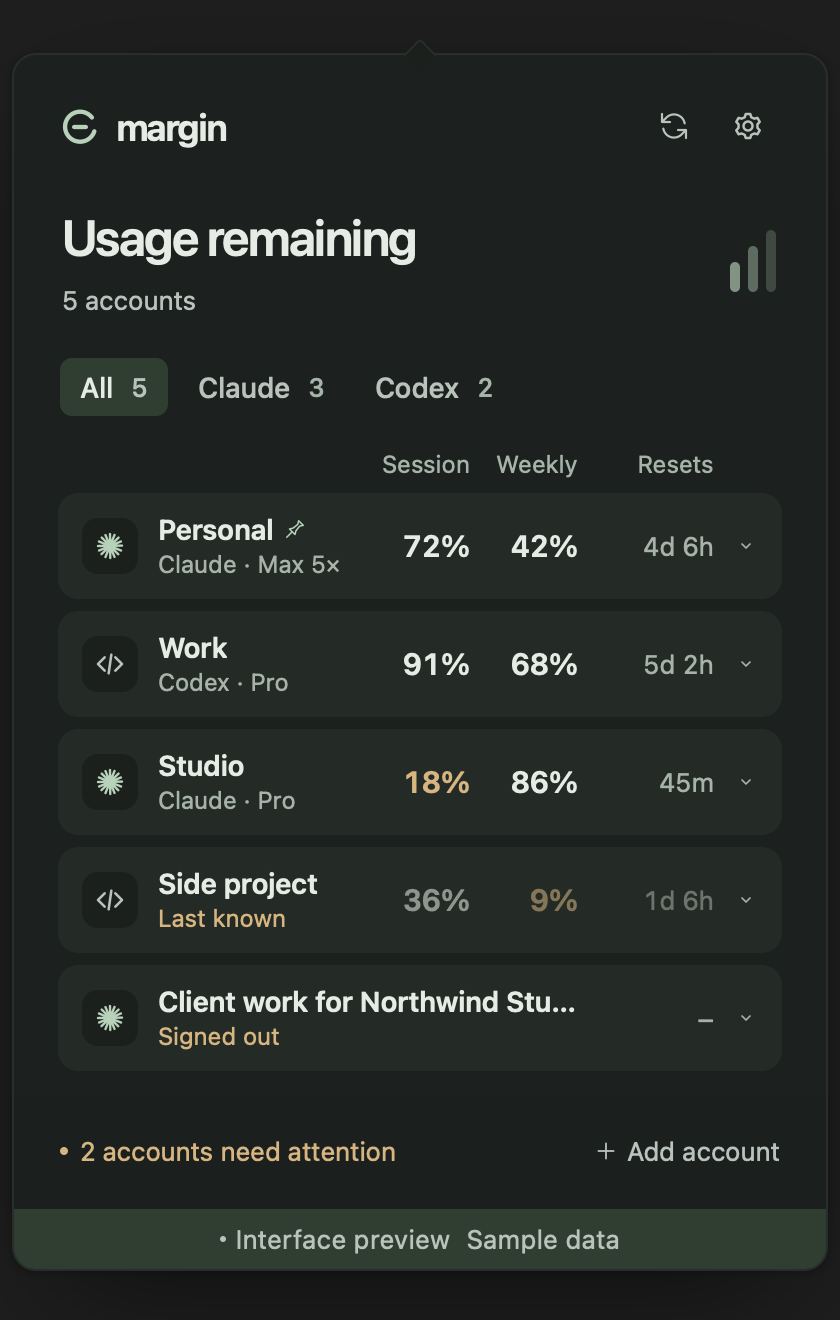
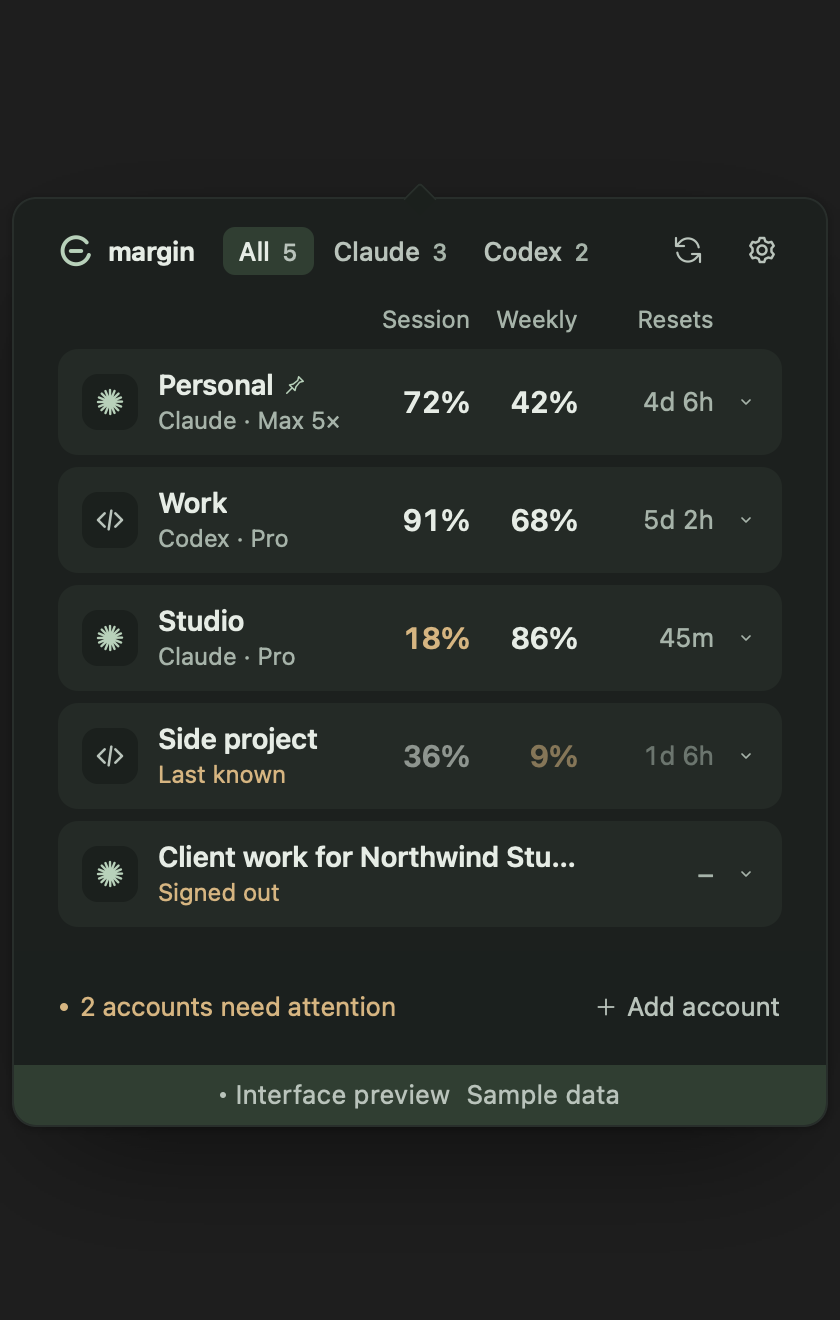
Open the popover straight on the accounts

diff --git a/src/App.vue b/src/App.vue
@@ -36,6 +36,7 @@ const refreshing = computed(() => (!connectionError.value && state.value.refresh
 const visibleAccounts = computed(() => state.value.accounts.filter(account => filter.value === 'all' || account.provider === filter.value))
 const staleCount = computed(() => state.value.accounts.filter(account => accountIsStale(account, state.value.settings, now.value, Boolean(connectionError.value))).length)
 const counts = computed(() => ({ all: state.value.accounts.length, claude: state.value.accounts.filter(account => account.provider === 'claude').length, codex: state.value.accounts.filter(account => account.provider === 'codex').length }))
+const showFilters = computed(() => counts.value.claude > 0 && counts.value.codex > 0)
 const filterOptions: { id: 'all' | Provider; label: string }[] = [{ id: 'all', label: 'All' }, { id: 'claude', label: 'Claude' }, { id: 'codex', label: 'Codex' }]
 const compact = computed(() => state.value.settings.overviewLayout === 'compact')
 const expandedId = ref<AccountId | null>(null)
@@ -65,7 +66,7 @@ const status = computed(() => {
 })
 
 watch(counts, value => {
-  if (filter.value !== 'all' && (value[filter.value] === 0 || value.all < 2)) filter.value = 'all'
+  if (filter.value !== 'all' && (!value.claude || !value.codex)) filter.value = 'all'
 })
 
 watchEffect(() => {
@@ -198,9 +199,8 @@ onUnmounted(() => {
         <div v-if="state.recovery" class="notice-banner recovery-banner" role="alert"><AppIcon name="alert" :size="13"/><div><p>Settings file couldn’t be read. Reset keeps a backup next to it.</p><p v-if="state.notice" class="recovery-detail">{{ state.notice }}</p><button class="button button-small" :disabled="busy" @click="resetStore">Back up and reset settings</button></div></div>
         <div v-else-if="state.notice" class="notice-banner" role="alert"><AppIcon name="alert" :size="13"/><span>{{ state.notice }}</span></div>
         <template v-if="page === 'overview'">
-          <header class="app-header"><div class="wordmark"><AppIcon name="margin" :size="20"/><span>margin</span></div><div class="header-actions"><AppTooltip :text="refreshing ? 'Checking usage' : `Refresh usage (${isWindows ? 'Ctrl+R' : '⌘R'})`"><button class="icon-button refresh-button" :class="{ pulsing: refreshing }" aria-label="Refresh usage" :disabled="busy || refreshing" @click="refresh"><AppIcon name="refresh" :size="16"/></button></AppTooltip><AppTooltip :text="`Settings (${isWindows ? 'Ctrl+,' : '⌘,'})`"><button class="icon-button settings-button" :aria-label="updater.available.value ? 'Settings, update available' : 'Open settings'" @click="openSettings()"><AppIcon name="settings" :size="18"/><span v-if="updater.available.value" class="update-dot" aria-hidden="true"/></button></AppTooltip></div></header>
-          <div class="overview-heading"><div><h1>Usage remaining</h1><p>{{ state.accounts.length ? `${state.accounts.length} ${state.accounts.length === 1 ? 'account' : 'accounts'}` : 'Claude and Codex' }}</p></div><span v-if="state.accounts.length" class="overview-symbol" aria-hidden="true"><span/><span/><span/></span></div>
-          <div v-if="state.accounts.length > 1" class="account-filters" role="group" aria-label="Filter by provider"><button v-for="option in filterOptions" :key="option.id" :class="{ active: filter === option.id }" :aria-pressed="filter === option.id" @click="filter = option.id">{{ option.label }}<span>{{ counts[option.id] }}</span></button></div>
+          <h1 class="sr-only">Usage remaining</h1>
+          <header class="app-header"><div class="wordmark"><AppIcon name="margin" :size="18"/><span>margin</span></div><div v-if="showFilters" class="account-filters" role="group" aria-label="Filter by provider"><button v-for="option in filterOptions" :key="option.id" :class="{ active: filter === option.id }" :aria-pressed="filter === option.id" @click="filter = option.id">{{ option.label }}<span>{{ counts[option.id] }}</span></button></div><div class="header-actions"><AppTooltip :text="refreshing ? 'Checking usage' : `Refresh usage (${isWindows ? 'Ctrl+R' : '⌘R'})`"><button class="icon-button refresh-button" :class="{ pulsing: refreshing }" aria-label="Refresh usage" :disabled="busy || refreshing" @click="refresh"><AppIcon name="refresh" :size="16"/></button></AppTooltip><AppTooltip :text="`Settings (${isWindows ? 'Ctrl+,' : '⌘,'})`"><button class="icon-button settings-button" :aria-label="updater.available.value ? 'Settings, update available' : 'Open settings'" @click="openSettings()"><AppIcon name="settings" :size="18"/><span v-if="updater.available.value" class="update-dot" aria-hidden="true"/></button></AppTooltip></div></header>
 
           <main ref="scroller" class="accounts-scroll" :class="{ 'empty-scroll': !state.accounts.length }" aria-label="Account usage">
             <div v-if="loading" class="initial-loading" role="status" aria-label="Loading accounts"><div v-for="index in 2" :key="index" class="skeleton-card"><div class="skeleton skeleton-heading"/><div class="skeleton skeleton-label"/><div class="skeleton skeleton-bar"/><div class="skeleton skeleton-label"/><div class="skeleton skeleton-bar"/></div><p>Reading your accounts…</p></div>

diff --git a/src/styles.css b/src/styles.css
@@ -202,23 +202,26 @@ button:disabled:hover {
 .app-header {
   display: flex;
   align-items: center;
-  justify-content: space-between;
-  padding: 22px 23px 0;
+  gap: 14px;
+  padding: 10px 16px 10px 22px;
   flex-shrink: 0;
 }
 .wordmark {
   display: flex;
   align-items: center;
-  gap: 8px;
-  font-size: 18px;
+  gap: 7px;
+  font-size: 13px;
   font-weight: 650;
-  letter-spacing: -.7px;
+  letter-spacing: -.2px;
+  white-space: nowrap;
+  flex-shrink: 0;
 }
 .wordmark svg {
   color: var(--accent);
 }
 .header-actions {
   display: flex;
+  margin-left: auto;
   gap: 5px;
   align-items: center;
 }
@@ -236,67 +239,25 @@ button:disabled:hover {
   background: var(--hover);
   color: var(--ink);
 }
-.overview-heading {
-  padding: 26px 24px 19px;
-  display: flex;
-  align-items: center;
-  justify-content: space-between;
-  flex-shrink: 0;
-}
-.overview-heading h1 {
-  font-size: 25px;
-  line-height: 1.2;
-  letter-spacing: -.9px;
-  font-weight: 600;
-}
-.overview-heading p {
-  font-size: 13px;
-  margin-top: 7px;
-  line-height: 1.5;
-  color: var(--secondary);
-  letter-spacing: .02px;
-}
-.overview-symbol {
-  height: 33px;
-  display: flex;
-  gap: 4px;
-  align-items: flex-end;
-  padding: 0 1px 2px 0;
-  opacity: .65;
-}
-.overview-symbol span {
-  width: 5px;
-  border-radius: 3px;
-  background: var(--accent);
-  height: 15px;
-}
-.overview-symbol span:nth-child(2) {
-  height: 23px;
-  opacity: .65;
-}
-.overview-symbol span:nth-child(3) {
-  height: 31px;
-  opacity: .35;
-}
 .account-filters {
   display: flex;
   align-items: center;
-  gap: 5px;
-  margin: 0 23px 16px;
-  flex-shrink: 0;
+  gap: 2px;
+  min-width: 0;
 }
 .account-filters button {
-  font-size: 14px;
+  font-size: 13px;
   font-weight: 500;
   display: flex;
-  gap: 9px;
+  gap: 6px;
   align-items: center;
   border-radius: 6px;
-  padding: 6px 10px;
+  padding: 4px 8px;
+  white-space: nowrap;
   color: var(--secondary);
 }
 .account-filters button span {
-  font-size: 13px;
+  font-size: 12px;
   color: var(--tertiary);
   font-variant-numeric: tabular-nums;
 }
@@ -1600,29 +1561,20 @@ input::placeholder {
   .desktop-gate h1 {
     font-size: 46px;
   }
-  .app-header {
-    padding-top: 20px;
-  }
-  .overview-heading {
-    padding-top: 24px;
+}
+@media(max-width:400px) {
+  .wordmark span {
+    display: none;
   }
 }
 @media(max-width:350px) {
   .app-header {
-    padding-right: 17px;
+    padding-right: 11px;
     padding-left: 17px;
-  }
-  .overview-heading {
-    padding-left: 18px;
-    padding-right: 18px;
   }
   .accounts-scroll {
     padding-left: 15px;
     padding-right: 15px;
-  }
-  .account-filters {
-    margin-left: 17px;
-    margin-right: 17px;
   }
   .account-card {
     padding-left: 13px;

diff --git a/tests/e2e/popover.spec.ts b/tests/e2e/popover.spec.ts
@@ -15,7 +15,9 @@ for (const theme of ['dark', 'light']) {
     await page.goto(`/?demo=1&theme=${theme}`)
     await expect(page.locator('html')).toHaveAttribute('data-theme', theme)
     await expect(page.getByRole('article')).toHaveCount(3)
-    await expect(page.getByRole('heading', { name: 'Usage remaining' })).toBeVisible()
+    await expect(page.getByRole('heading', { name: 'Usage remaining', level: 1 })).toBeAttached()
+    await expect(page.getByRole('article').first()).toBeVisible()
+    await expect(page.getByRole('group', { name: 'Filter by provider' })).toBeVisible()
     await expect(page.getByText('Sample data', { exact: true })).toBeVisible()
     expect(await page.evaluate(() => document.documentElement.scrollWidth <= window.innerWidth)).toBe(true)
     await info.attach(`overview-${theme}`, { body: await page.screenshot(), contentType: 'image/png' })
@@ -221,4 +223,19 @@ test('skipped accounts are noted in settings', async ({ page }) => {
   await page.goto('/?demo=1&state=recovered')
   await page.getByRole('button', { name: 'Open settings' }).click()
   await expect(page.getByRole('status').filter({ hasText: 'Skipped account “Old work” because its saved data couldn’t be read. A backup is kept next to the settings file.' })).toBeVisible()
+})
+
+test('accounts start right under the header', async ({ page }) => {
+  await page.goto('/?demo=1')
+  const shellTop = await page.locator('.app-shell').evaluate(element => element.getBoundingClientRect().top)
+  const cardTop = await page.getByRole('article').first().evaluate(element => element.getBoundingClientRect().top)
+  expect(cardTop - shellTop).toBeLessThan(72)
+  const header = page.locator('.app-header')
+  expect((await header.boundingBox())?.height).toBeLessThanOrEqual(56)
+})
+
+test('provider filters only appear when both providers have accounts', async ({ page }) => {
+  await page.goto('/?demo=1&state=claude-only')
+  await expect(page.getByRole('article')).toHaveCount(2)
+  await expect(page.getByRole('group', { name: 'Filter by provider' })).toHaveCount(0)
 })

diff --git a/tests/e2e/controls.spec.ts b/tests/e2e/controls.spec.ts
@@ -170,7 +170,7 @@ test('Escape closes a select before leaving Settings and returns trigger focus',
   await expect(trigger).toBeFocused()
   await expect(page.getByRole('heading', { name: 'Settings', exact: true })).toBeVisible()
   await page.keyboard.press('Escape')
-  await expect(page.getByRole('heading', { name: 'Usage remaining', exact: true })).toBeVisible()
+  await expect(page.getByRole('article').first()).toBeVisible()
 })
 
 for (const theme of ['light', 'dark']) {
@@ -419,7 +419,7 @@ test('tooltips support focus and Escape without native title bubbles', async ({ 
   await page.keyboard.press('Escape')
   await expect(page.getByRole('tooltip')).toHaveCount(0)
   await expect(settings).toBeFocused()
-  await expect(page.getByRole('heading', { name: 'Usage remaining', exact: true })).toBeVisible()
+  await expect(page.getByRole('article').first()).toBeVisible()
   await page.keyboard.press('Enter')
   await expect(page.getByRole('heading', { name: 'Settings', exact: true })).toBeVisible()
   await page.getByRole('tab', { name: /^Accounts/ }).click()

diff --git a/src/lib/demo.ts b/src/lib/demo.ts
@@ -100,6 +100,7 @@ export function createDemoState(scenario: string | null): AppState {
     state.notice = 'Margin’s settings file is damaged or unsupported. Settings file: ~/Library/Application Support/com.abulkosim.margin/state.json.'
   }
   if (scenario === 'single') state.accounts = state.accounts.slice(0, 1)
+  if (scenario === 'claude-only') state.accounts = state.accounts.filter(account => account.provider === 'claude')
   if (scenario === 'compact') {
     state.settings = { ...state.settings, overviewLayout: 'compact', trayMode: 'pinned', pinnedAccountId: accountIdSchema.parse('demo-claude-personal') }
     state.accounts = [...state.accounts, accountSchema.parse({

diff --git a/changelogs/v0.5.1.md b/changelogs/v0.5.1.md
@@ -1,0 +1,5 @@
+# v0.5.1
+
+Unreleased
+
+- The popover opens straight on the accounts: the title block is gone, provider filters sit in the header, and they only appear when both Claude and Codex accounts exist.
